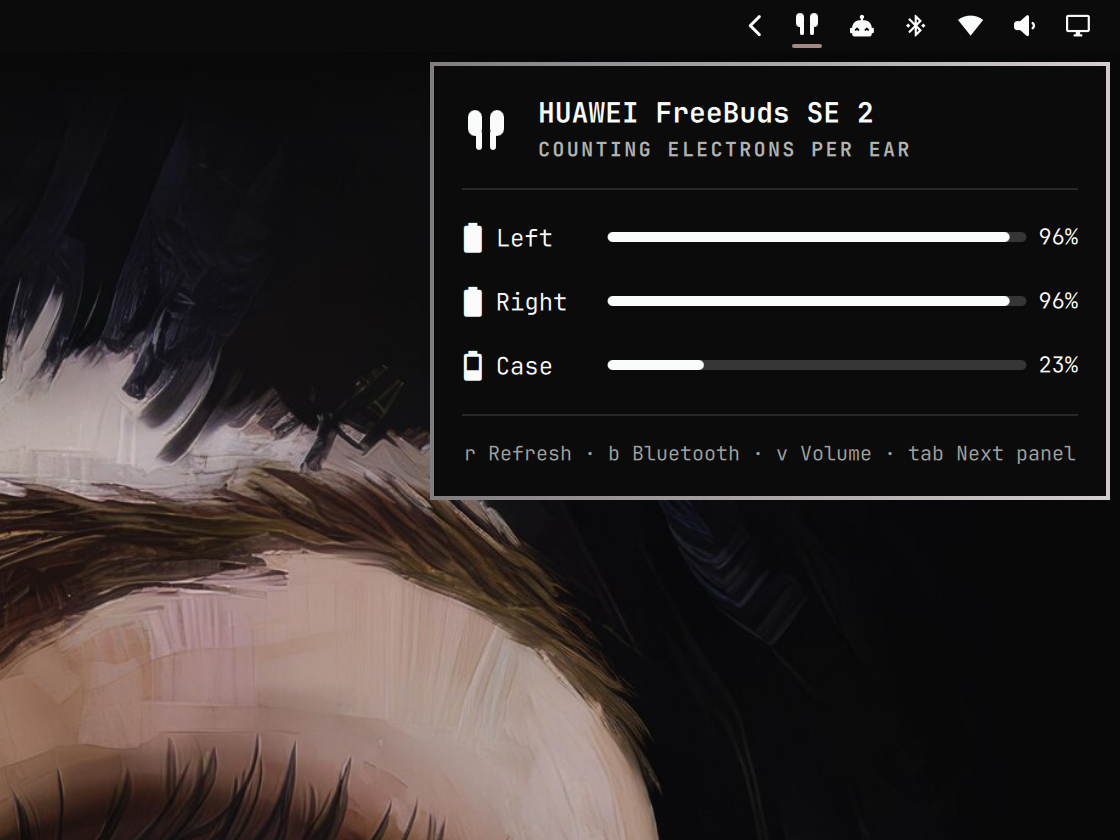
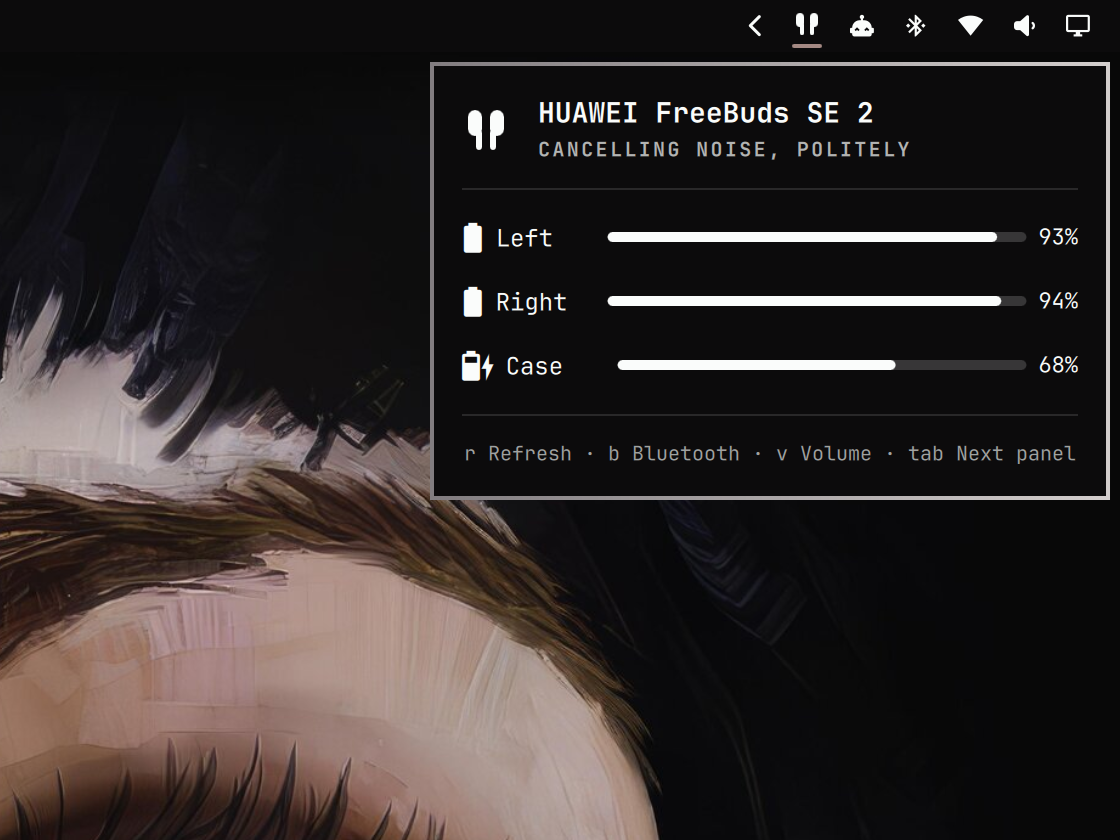
Huawei FreeBuds SE 2: charging bolt on the Case row, by row opt-in
The Case row draws no bolt, on purpose, because the Fast Pair case bit
was seen to lie. The FreeBuds SE 2's case byte followed the cable in the
owner's guided session, so its BACKENDS row opts in with caseCharging;
every other backend keeps the row exactly as it was. Gallery shot
retaken with the case on a cable.

diff --git a/Model.js b/Model.js
@@ -529,7 +529,10 @@ var BACKENDS = [
     // its battery channel sits behind, like the TOZO row above.
     modelNames: ["HUAWEI FreeBuds SE 2"],
     modelUuids: ["00001101-0000-1000-8000-00805f9b34fb"],
-    args: ["address", "name"] },
+    args: ["address", "name"],
+    // Its case's charging byte followed the cable on the owner's hardware,
+    // so the panel may draw the bolt the Case row leaves off elsewhere.
+    caseCharging: true },
   { name: "jbl", bridge: "jbl-bridge",
     ble: true, args: ["bleAddress", "modelId"] }
 ]
@@ -596,6 +599,14 @@ function bridgeArgs(backend, values) {
   var out = []
   for (var i = 0; i < row.args.length; i++) out.push(str(known[row.args[i]]))
   return out
+}
+
+// Whether the Case row draws a charging bolt on this backend. Off unless the
+// row says so: the Fast Pair case bit was seen to lie (see Panel.qml), and a
+// backend earns the bolt by its owner seeing its case byte follow the cable.
+function caseChargingShown(backend) {
+  var row = backendRow(backend)
+  return !!row && row.caseCharging === true
 }
 
 // The Ambient dial's range and the switch's name on this backend.

diff --git a/Panel.qml b/Panel.qml
@@ -638,11 +638,14 @@ Panel {
           // charging bit stayed set for minutes with the case empty and unplugged
           // — while reading clear at a moment the case was plugged in. A level
           // that lags is a small lie; a bolt claiming "charging, now" when the
-          // cable is out is a plain one, so the level stays and the bolt goes.
+          // cable is out is a plain one, so the level stays and the bolt goes —
+          // except on a backend whose row says its case byte was seen to follow
+          // the cable (`caseCharging` in BACKENDS: the Huawei FreeBuds SE 2).
           BatteryRow {
             label: "Case"
             level: root.caseLevel
-            charging: false
+            charging: root.caseCharging
+              && Model.caseChargingShown(root.current ? root.current.controlBackend : "")
             // A case that has closed stops reporting; its last reading stays,
             // dimmed, rather than going to a dash.
             stale: root.caseStale

diff --git a/tests/model.test.js b/tests/model.test.js
@@ -1144,6 +1144,16 @@ Deno.test("FreeBuds SE 2 routing requires its reported name and its SPP service"
   assertEquals(Model.modeOptions([], "huawei"), []);
 });
 
+Deno.test("only a row that opts in draws the case charging bolt", () => {
+  assertEquals(Model.caseChargingShown("huawei"), true);
+  for (const row of Model.BACKENDS.filter(r => r.name !== "huawei")) {
+    assertEquals(Model.caseChargingShown(row.name), false, row.name);
+  }
+  // A device no backend claims: Fast Pair alone, or BlueZ alone.
+  assertEquals(Model.caseChargingShown(""), false);
+  assertEquals(Model.caseChargingShown("nope"), false);
+});
+
 Deno.test("TOZO six modes are explicit and keep the existing default four", () => {
   const modes = ["off", "anc", "ambient", "wind", "leisure", "adaptive"];
   assertEquals(Model.modesAvailable({available:modes}, "tozo"), modes);

diff --git a/README.md b/README.md
@@ -125,7 +125,7 @@ Headphones not on the list? [Add yours](#add-your-own-headphones).
 
 <table>
 <tr>
-<td width="50%"><img src="docs/gallery/huawei-freebuds-se-2.png" alt="HUAWEI FreeBuds SE 2: left, right and case batteries, no mode row" width="100%"></td>
+<td width="50%"><img src="docs/gallery/huawei-freebuds-se-2.png" alt="HUAWEI FreeBuds SE 2: left, right and case batteries, the case charging, no mode row" width="100%"></td>
 <td width="50%"></td>
 </tr>
 <tr>
